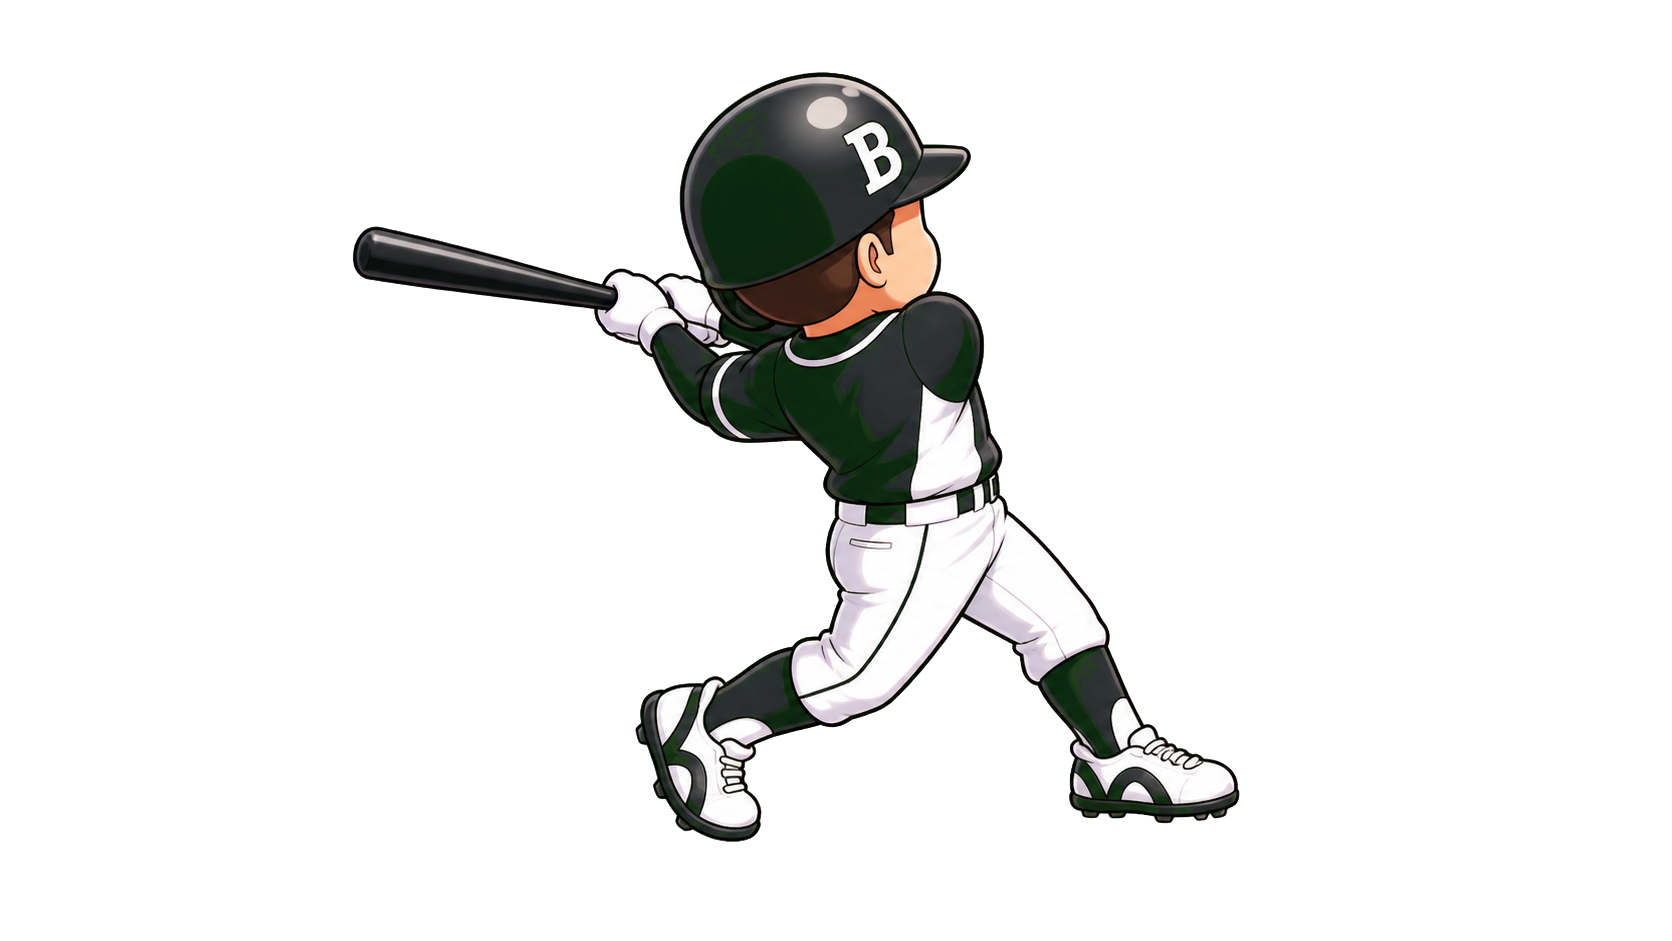
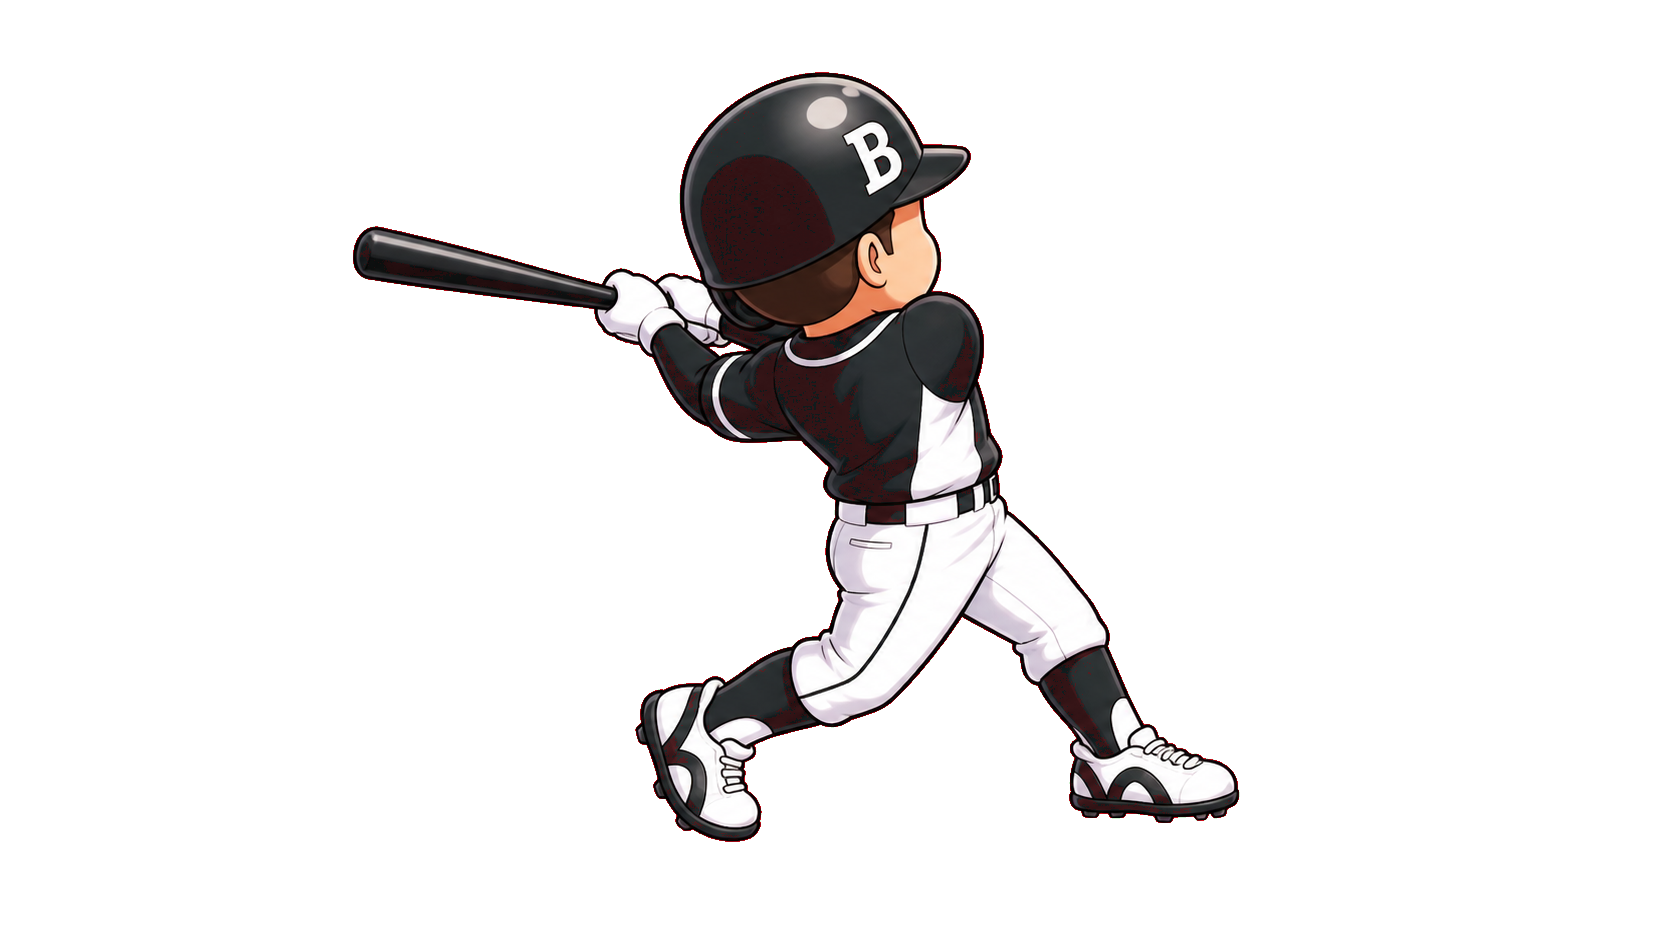
ユニフォームの色

diff --git a/script.js b/script.js
@@ -975,7 +975,6 @@ let hbpPose = { active: false, startTime: 0, duration: 1800 };
 const keysDown = new Set();
 const pitchAdjustmentKeys = ["1", "3", "4", "6"];
 let pitchControlLockoutKeys = new Set();
-let intentionalWalkCommandLocked = false;
 let mouseAim = { active: false, x: 0, y: 0 };
 let lastFrameTime = performance.now();
 const gamepadState = {
@@ -995,7 +994,8 @@ const gamepadButtons = {
   X: 3,
   Y: 0,
   LB: 4,
-  RB: 5
+  RB: 5,
+  INTENTIONAL_WALK: 9
 };
 
 function createStealState() {
@@ -3484,23 +3484,6 @@ function canDeclareIntentionalWalk() {
     && !(stealState.active && !stealState.resolved);
 }
 
-function isIntentionalWalkCommandHeld() {
-  return isKeyHeld("0") && isKeyHeld("3");
-}
-
-function releaseIntentionalWalkCommandLockout() {
-  if (!isIntentionalWalkCommandHeld()) intentionalWalkCommandLocked = false;
-}
-
-function tryDeclareIntentionalWalk() {
-  if (!isIntentionalWalkCommandHeld()) return false;
-  if (intentionalWalkCommandLocked) return true;
-  intentionalWalkCommandLocked = true;
-  if (!canDeclareIntentionalWalk()) return true;
-  declareIntentionalWalk();
-  return true;
-}
-
 function declareIntentionalWalk() {
   resetBall();
   resetSwing();
@@ -4652,7 +4635,6 @@ function pollGamepadInput() {
     gamepadState.previousDirections[team] = getGamepadDirections(gamepad);
   });
   releaseInactivePitchControlLockouts();
-  releaseIntentionalWalkCommandLockout();
   updateMenuGamepadCursorVisibility();
 }
 
@@ -4898,7 +4880,8 @@ function handleGamepadButtonPresses(gamepad, team, options = {}) {
 
   const pitchingTeam = isBattingPracticeMode() ? "away" : fieldingTeam();
   if (gamePhase === "playing" && isPlayerPitching() && team === pitchingTeam) {
-    if (tryDeclareIntentionalWalk()) {
+    if (justPressed(gamepadButtons.INTENTIONAL_WALK)) {
+      if (canDeclareIntentionalWalk()) declareIntentionalWalk();
       gamepadState.previousButtons[team] = pressed;
       return;
     }
@@ -17076,7 +17059,7 @@ function drawMiniRunner(x, y, runProgress, options = {}) {
 }
 
 function drawDefenseFielder(x, y, role, name, isChosen, runProgress = 0) {
-  const teamColor = fieldingTeam() === "away" ? "#153f24" : "#153f24";
+  const teamColor = fieldingTeam() === "away" ? "#153f24" : "#b8202d";
   const accentColor = isChosen ? "#ffcf70" : "#ffffff";
   const bob = isChosen ? Math.sin(runProgress * Math.PI * 10) * 3 : 0;
   const stride = isChosen ? Math.sin(runProgress * Math.PI * 12) : 0;
@@ -18518,10 +18501,6 @@ window.addEventListener("keydown", (event) => {
     modeSelect.value = "versus";
     if (gamePhase !== "menu") switchLiveMode("versus");
   }
-  if (tryDeclareIntentionalWalk()) {
-    event.preventDefault();
-    return;
-  }
   if (gamePhase === "playing" && isPlayerPitching() && event.key === "7") movePitcherOnPlate(-1);
   if (gamePhase === "playing" && isPlayerPitching() && event.key === "9") movePitcherOnPlate(1);
   if (gamePhase === "playing" && isPlayerPitching() && event.key === "5") startPitch("normal");
@@ -18540,7 +18519,6 @@ window.addEventListener("keyup", (event) => {
   keysDown.delete(event.key);
   const key = event.code.startsWith("Digit") || event.code.startsWith("Numpad") ? event.code.slice(-1) : event.key;
   releasePitchControlLockout(key);
-  releaseIntentionalWalkCommandLockout();
 });
 
 window.addEventListener("blur", () => {
@@ -18548,7 +18526,6 @@ window.addEventListener("blur", () => {
   gamepadState.virtualKeys.clear();
   clearTeamGamepadHistory();
   releasePitchControlLockout();
-  releaseIntentionalWalkCommandLockout();
 });
 
 document.addEventListener?.("visibilitychange", () => {
@@ -18557,7 +18534,6 @@ document.addEventListener?.("visibilitychange", () => {
     gamepadState.virtualKeys.clear();
     clearTeamGamepadHistory();
     releasePitchControlLockout();
-    releaseIntentionalWalkCommandLockout();
   }
 });
 
